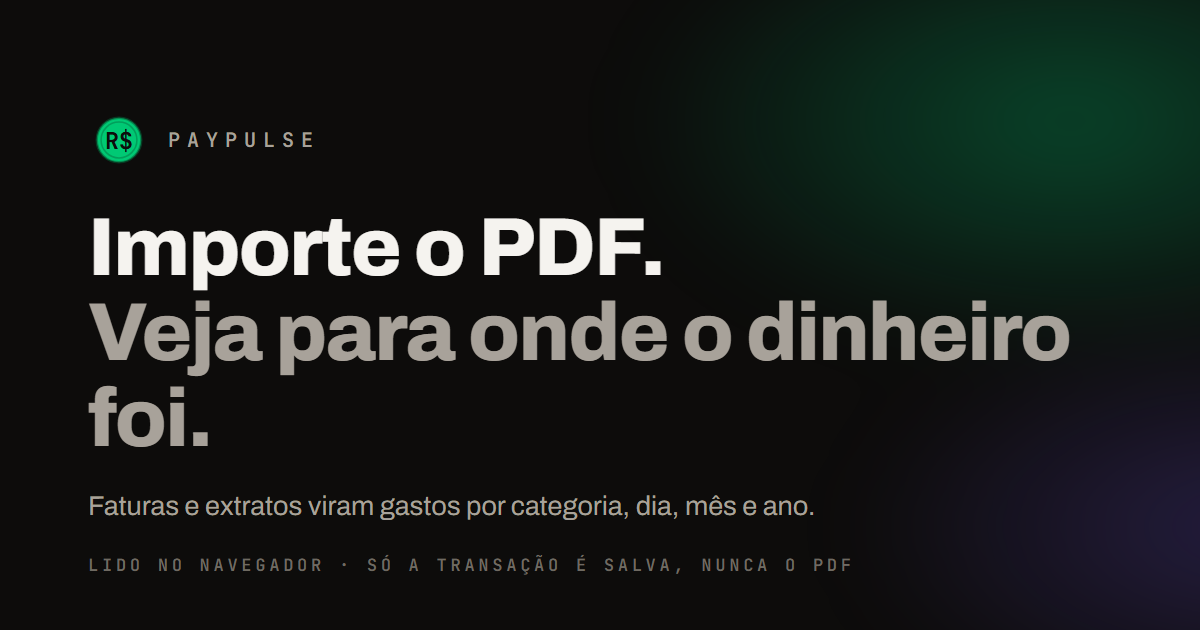
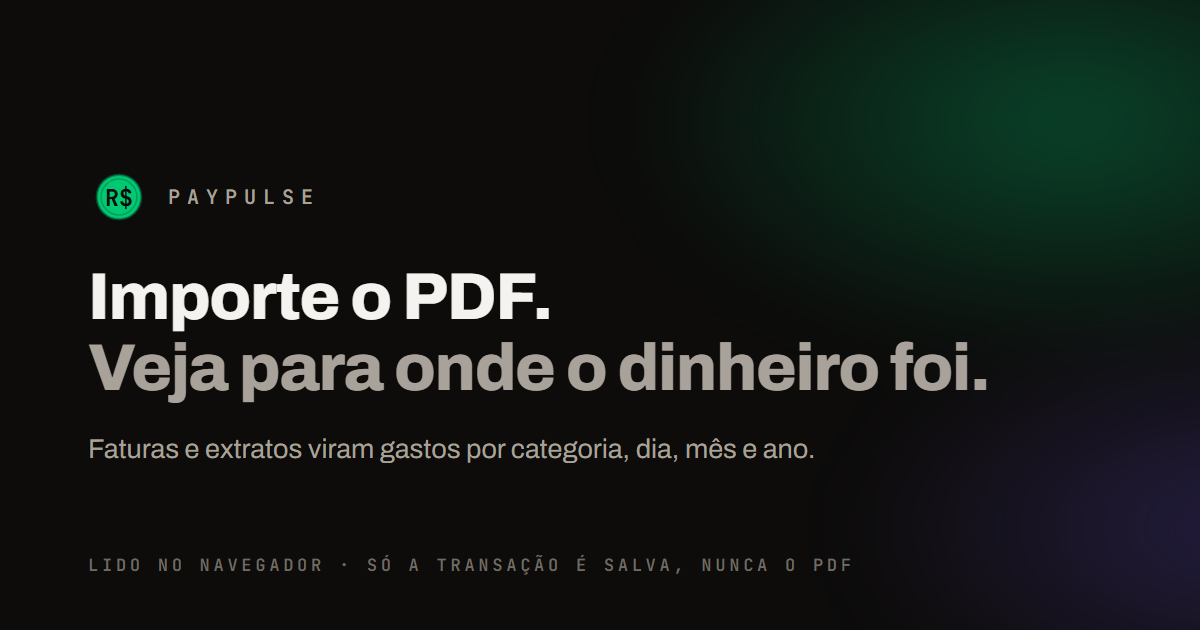
fix: titulo do card OG em duas linhas, sem orfa
Em 82px a segunda linha nao cabia na largura util e quebrava em tres,
deixando "foi." sozinho e empurrando o bloco contra o rodape. 66px resolve
e o card fica respirando.

Changed region(s): [[0.0617, 0.181, 0.8942, 0.754], [0.0617, 0.7841, 0.6783, 0.8444]]

diff --git a/scripts/og-card.html b/scripts/og-card.html
@@ -40,9 +40,11 @@
         letter-spacing: 0.35em; text-transform: uppercase;
         color: #a8a29a;
       }
+      /* 66px, nao 82: em 82 a segunda linha nao cabe na largura util e quebra
+         em tres, deixando "foi." orfao e empurrando o bloco contra o rodape. */
       h1 {
-        font-size: 82px; font-weight: 800;
-        line-height: 1.04; letter-spacing: -0.02em;
+        font-size: 66px; font-weight: 800;
+        line-height: 1.08; letter-spacing: -0.02em;
       }
       h1 .fraca { color: #a8a29a; }
       p {
